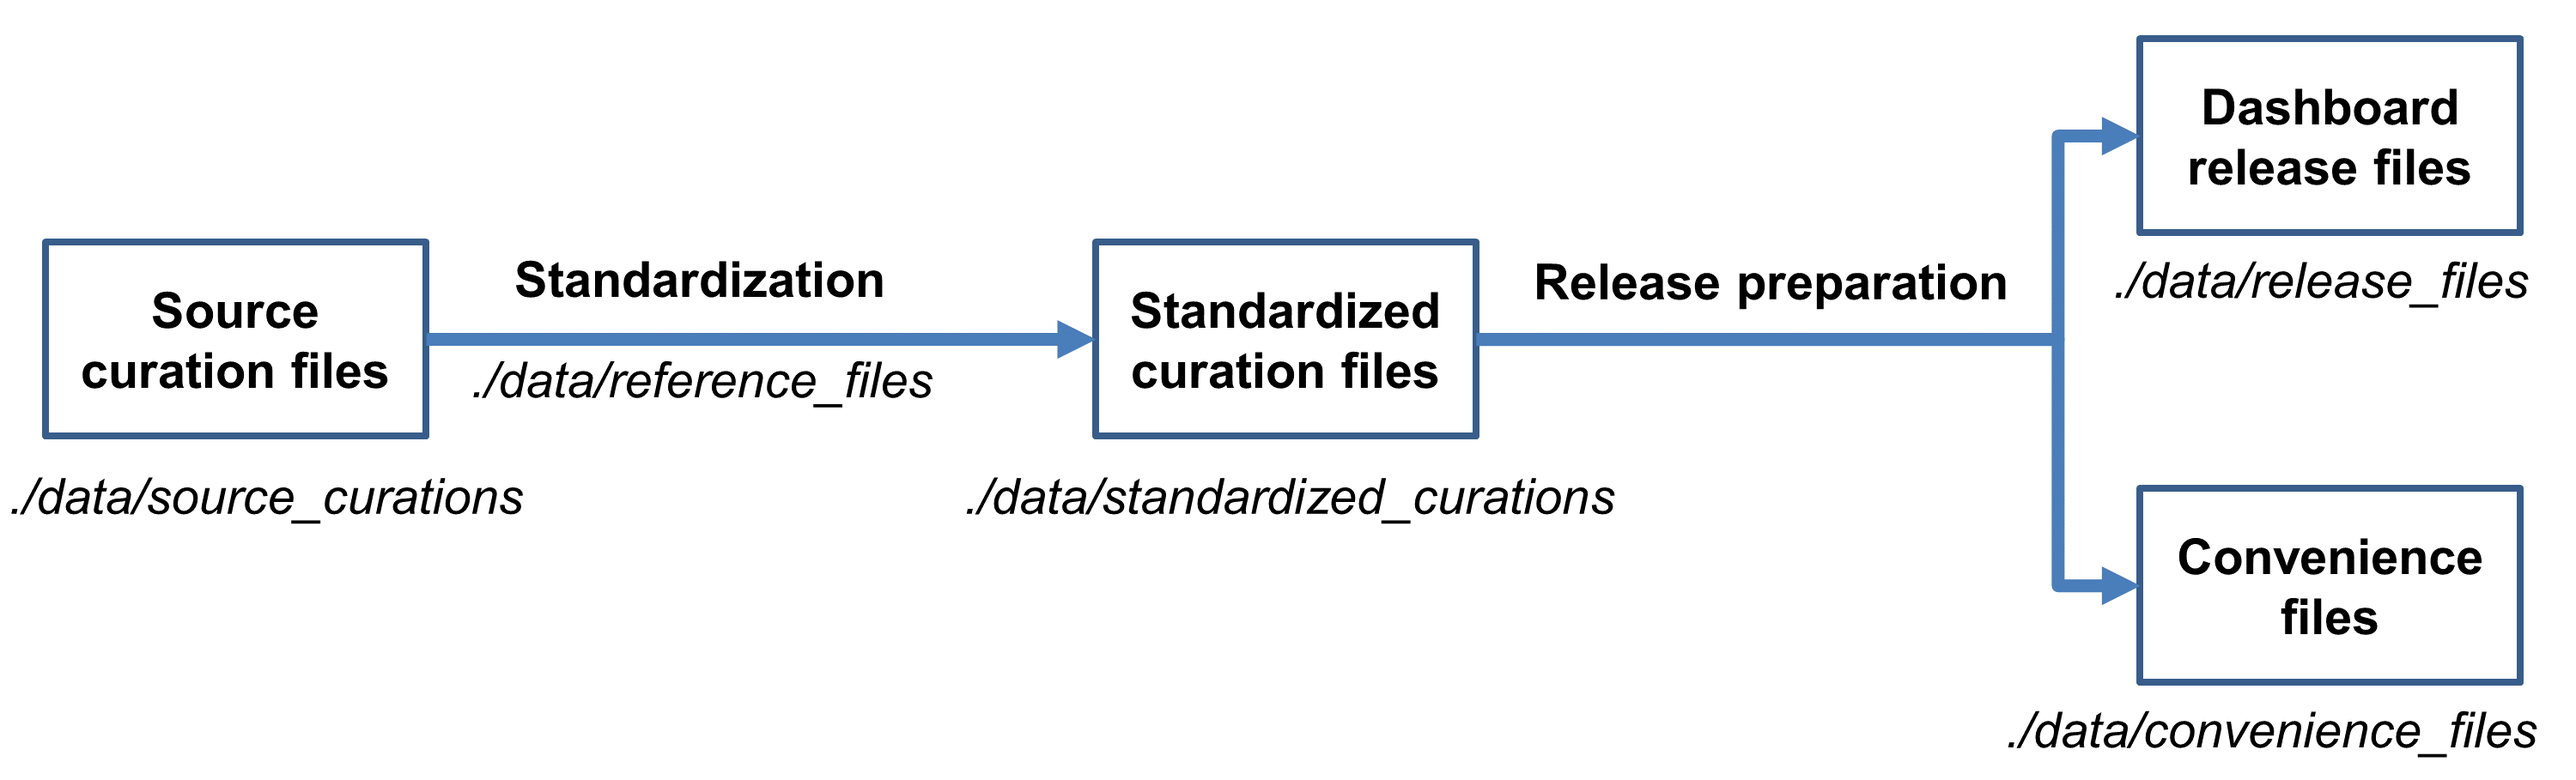
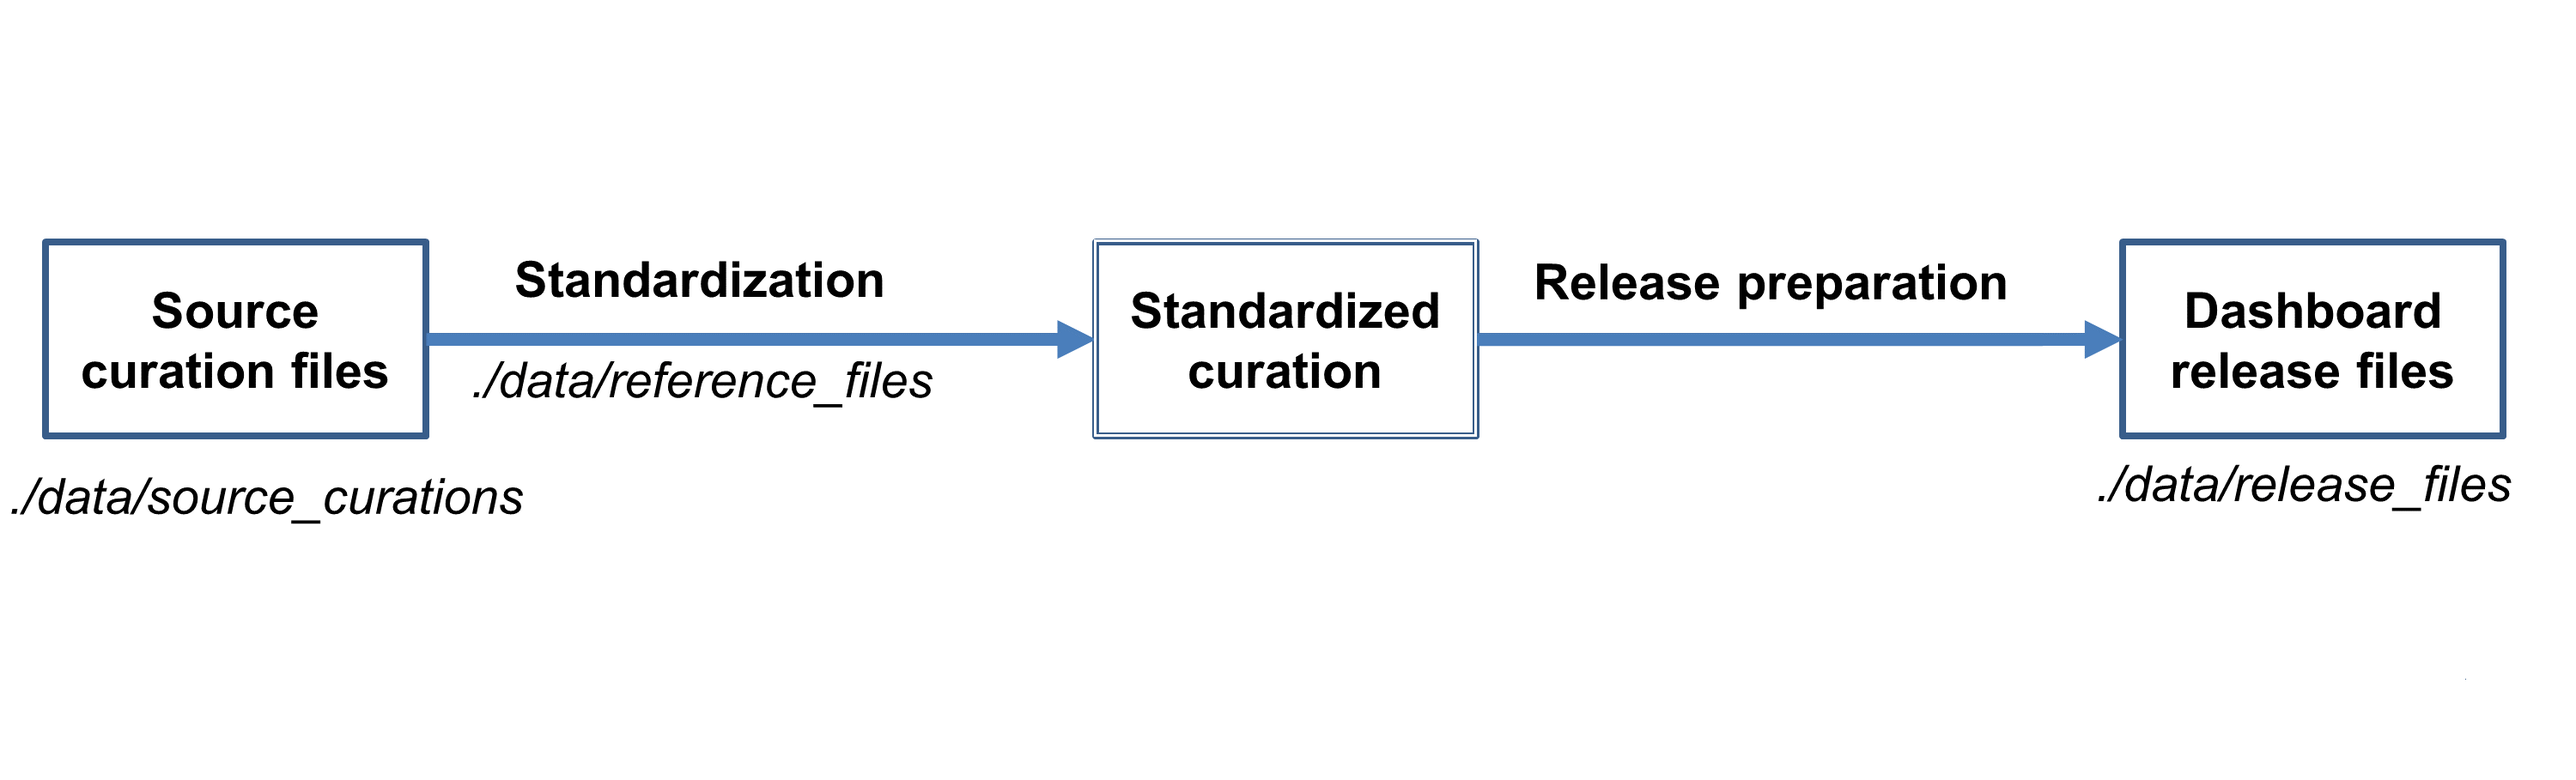
update document

diff --git a/README.md b/README.md
@@ -35,11 +35,7 @@ The repository contents are as follows:
     
       - **./data/source_curations**: source curation spreadsheets, as
         provided by curators.
-    
-      - **./data/standardized_curations**: curation spreadsheets in denormalized form, after
-        undergoing processing for quality control and standardization. This is the state from 
-        which all other files are created, i.e. the convenience files and release files. 
-    
+
       - **./data/reference_files**: resources used to support the
         standardization process, including controlled vocabularies from
         external sources and mapping files maintained by the project.
@@ -48,10 +44,7 @@ The repository contents are as follows:
         transformed, partially denormalized spreadsheet files generated from the standardized
         curations. They are formatted as needed for uploading to the
         Dashboard.
-        
-      - **./data/convenience_files**: the standardized curations conveniently reformatted to support 
-        human inspection and downstream computational analysis.
-        
+
   - **./docs**: curation templates and column specification.
 
 The overall workflow of the project is depicted below.
@@ -158,22 +151,16 @@ and are updated with the latest versions prior to a Dashboard release.
 ### Release Preparation
 
 The quality control and standardization process produces new, denormalized versions of
-the source spreadsheets which are placed under **./data/standardized_curations**. 
-These files then undergo further processing to generate the
+the curation data.
+These data then undergo further processing to generate the
 final data release files which will be uploaded to the Dashboard. This
 processing is essentially a straightforward repackaging of the
 spreadsheets into a format appropriate for the upload scripts. It
 involves splitting immune signatures into individual spreadsheet files, one
 signature per file. The final release files are stored under **./data/release_files** and
-have the same columns as the standardized curation files, with some additions
+have the same columns as the standardized curation data, with some additions
 to support the requirements of the Dashboard itself and to preserve
 original curated values for fields updated by the pipeline.
-
-The release preparation process also generates a number of convenience files, i.e., 
-partially re-normalized versions of the standardized curations. These files are available 
-in spreadsheet format, to facilitate human inspection; and in the Broad GMT tab delimited file format, 
-to support downstream computational processing. The files are stored under 
-**./data/convenience_files**  
 
 Additional details about the processing pipeline can be found under the
 **./data** directory.
